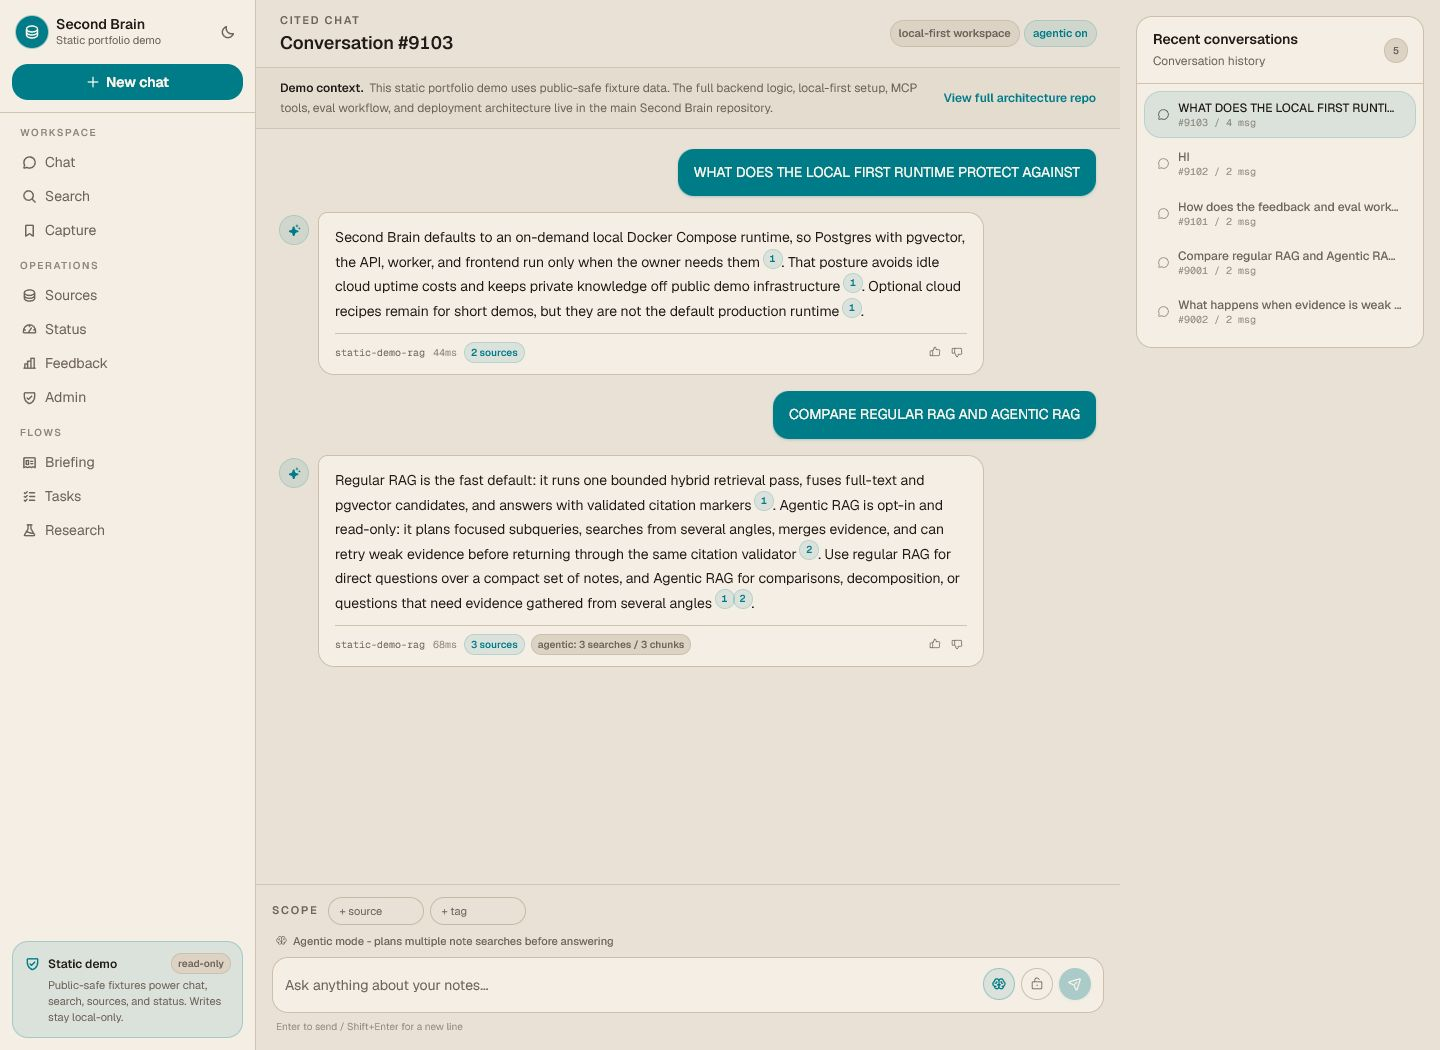
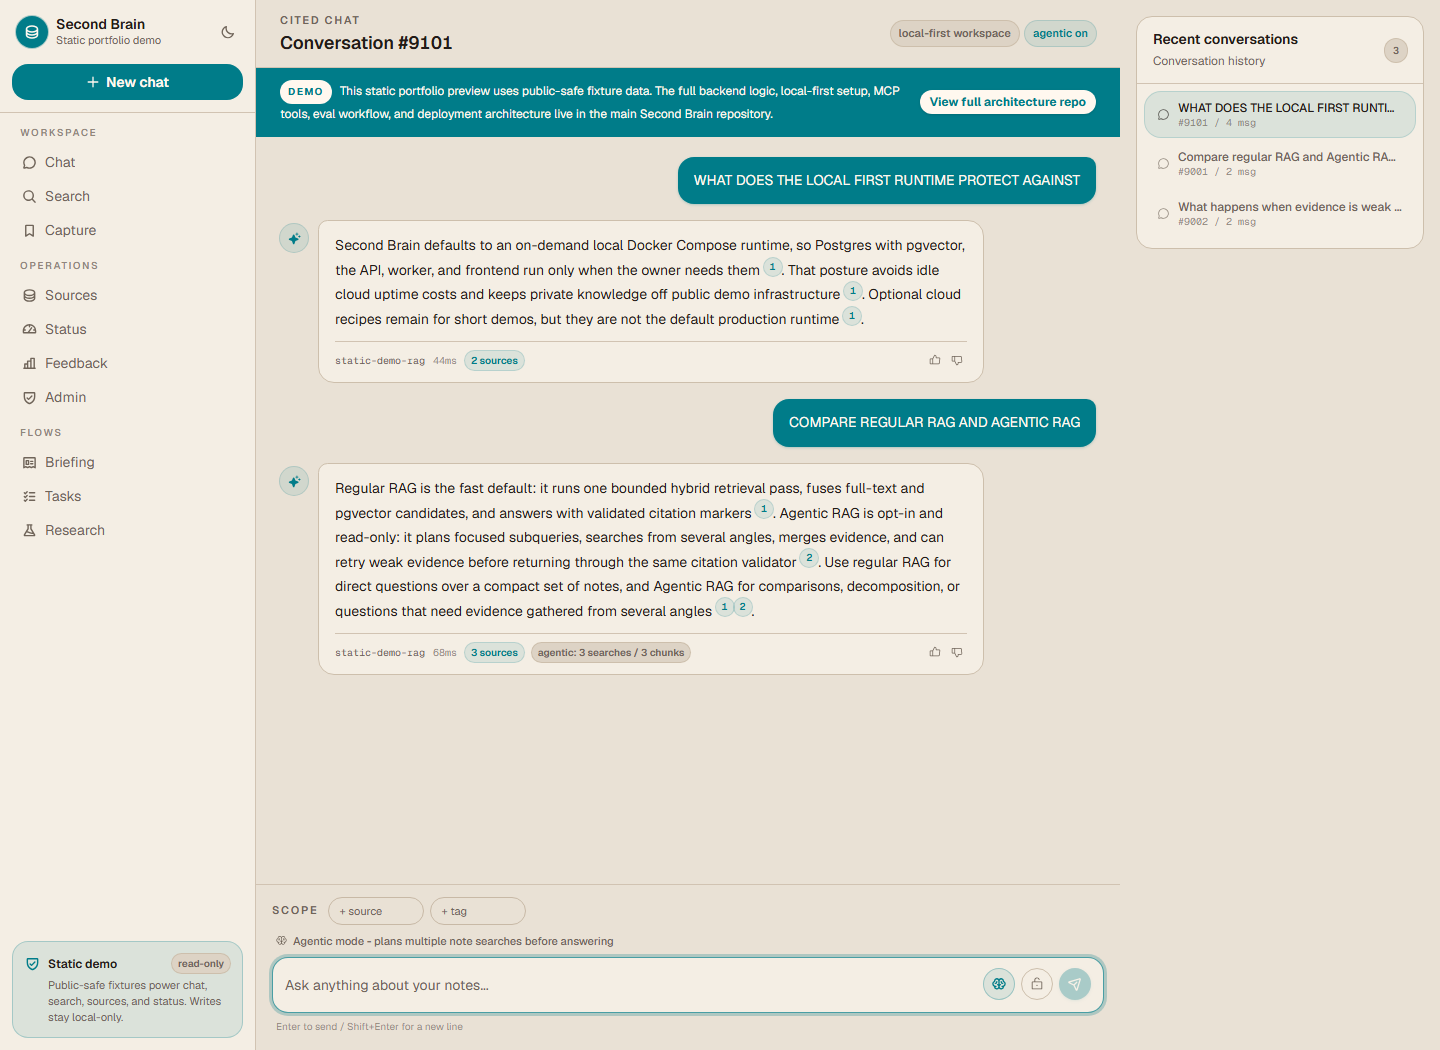
Highlight static demo context

diff --git a/frontend/app/chat/page.tsx b/frontend/app/chat/page.tsx
@@ -288,11 +288,13 @@ function ChatPage() {
         </div>
       </header>
       {STATIC_DEMO_MODE && (
-        <section className="shrink-0 border-b border-grid bg-muted/35 px-4 py-2.5 md:px-6">
-          <div className="mx-auto flex w-full max-w-5xl flex-col gap-2 text-xs leading-5 text-muted-foreground sm:flex-row sm:items-center sm:justify-between">
+        <section className="shrink-0 border-b border-primary/40 bg-primary px-4 py-3 text-primary-foreground md:px-6">
+          <div className="mx-auto flex w-full max-w-5xl flex-col gap-2 text-xs leading-5 sm:flex-row sm:items-center sm:justify-between">
             <p className="min-w-0">
-              <span className="mr-1.5 font-semibold text-foreground">Demo context.</span>
-              This static portfolio demo uses public-safe fixture data. The full backend logic,
+              <span className="mr-2 inline-flex rounded-md bg-primary-foreground px-2 py-0.5 text-[10px] font-bold uppercase tracking-[0.14em] text-primary">
+                Demo
+              </span>
+              This static portfolio preview uses public-safe fixture data. The full backend logic,
               local-first setup, MCP tools, eval workflow, and deployment architecture live in the
               main Second Brain repository.
             </p>
@@ -300,7 +302,7 @@ function ChatPage() {
               href={MAIN_SECOND_BRAIN_REPO_URL}
               target="_blank"
               rel="noreferrer"
-              className="shrink-0 text-xs font-semibold text-primary underline-offset-4 transition-colors hover:text-primary/85 hover:underline"
+              className="inline-flex shrink-0 items-center justify-center rounded-md bg-primary-foreground px-2.5 py-1 text-xs font-bold text-primary shadow-sm transition-colors hover:bg-primary-foreground/90 focus-visible:outline-none focus-visible:ring-3 focus-visible:ring-primary-foreground/35"
             >
               View full architecture repo
             </a>

diff --git a/README.md b/README.md
@@ -1,22 +1,54 @@
 # Second Brain Portfolio Demo
 
-This repository is the public, zero-cost Netlify static demo for
-[Second Brain](https://github.com/tomnguyen103/second-brain). It exists so
-portfolio visitors can click through the product experience without deploying
-the private local-first runtime.
+**A zero-cost static Netlify portfolio preview of
+[Second Brain](https://github.com/tomnguyen103/second-brain): a local-first
+personal AI workspace for streaming cited RAG, hybrid search, source
+management, briefings, feedback/evals, and MCP-powered actions.**
+
+This repository keeps the public demo separate from the full local-first
+runtime. It ships only static frontend assets and public-safe fixture data, so
+portfolio visitors can click through the product experience without deploying a
+database, API server, worker, LLM key, or private notes.
 
 ![Second Brain static portfolio demo chat screen](docs/assets/second-brain-portfolio-demo-chat.png)
 
 ## Important Note
 
-This repo is only the static portfolio demo. The real application logic,
-backend architecture, local-first setup, MCP tools, eval workflow, worker,
-database, and operations documentation live in the main repository:
+This repo is only the static portfolio demo. The actual logic code, backend
+architecture, local-first setup, MCP tools, eval workflow, worker, database, and
+operations documentation live in the main repository:
 
 https://github.com/tomnguyen103/second-brain
 
 Use this repo to review the deployable public frontend experience. Use the main
-`second-brain` repo to review how the full system is built and operated.
+`second-brain` repo to review how the full system is built, operated, tested,
+and extended.
+
+## Project Overview
+
+The full Second Brain project captures web passages and personal knowledge,
+stores them in PostgreSQL with pgvector and full-text indexes, serves
+citation-validated answers over streaming chat, produces briefings, and exposes
+MCP tools for trusted local clients.
+
+This static demo mirrors the portfolio-facing web shell with deterministic,
+browser-side fixture behavior. Chat, search, sources, status, feedback, tasks,
+research, briefing, and admin pages call a read-only demo adapter backed by the
+public demo corpus. Regular RAG and Agentic RAG are both represented with
+citation markers, retrieval metadata, source snippets, and a clear demo-context
+notice that links viewers to the full architecture repo.
+
+## Tech Stack
+
+| Layer | Static portfolio demo | Full `second-brain` repo |
+| --- | --- | --- |
+| Frontend | Next.js 16 static export, React 19, TypeScript, Tailwind CSS, Base UI/shadcn-style primitives, TanStack Query, Framer Motion, Phosphor/lucide icons | Next.js, TypeScript, Tailwind CSS, shadcn/ui, TanStack Query, repo-local WattVision DesignMD |
+| Demo API | Browser-side read-only adapter in `frontend/lib/api/demo-client.ts` | Python, FastAPI, SQLAlchemy, Alembic, Pydantic v2 |
+| Data and retrieval | Public-safe fixture corpus, deterministic static search, local citation helpers | PostgreSQL, pgvector, full-text search, JSONB, RLS, audit tables, RRF hybrid retrieval |
+| Agentic RAG | Static Agentic RAG metadata and deterministic comparison answers | LangGraph request-scoped read-only retrieval workflow |
+| LLM and embeddings | No browser LLM calls, no embedding API calls, no secrets | Gemini 2.5 Flash, local Ollama private mode, fake driver, MiniLM or Gemini embeddings |
+| Workflows | Read-only UI surfaces for writes, ingest, eval promotion, retention purge, and admin actions | MCP stdio tools, durable worker jobs, daily briefings, feedback review, MLflow evals, CI eval gate |
+| Runtime and deploy | Netlify static export from `frontend/out`; zero backend cost | Local-first Docker Compose with optional VPS demo recipe and local kind learning track |
 
 ## What This Demo Shows
 
@@ -27,8 +59,8 @@ Use this repo to review the deployable public frontend experience. Use the main
 - Static search over the public demo corpus.
 - Read-only behavior for writes such as capture, ingest, task creation,
   source edits, research enqueue, eval promotion, deletion, and retention purge.
-- A demo context notice that tells viewers this is a static portfolio preview
-  and links to the full architecture repo.
+- A highlighted demo context notice that tells viewers this is a static
+  portfolio preview and links to the full architecture repo.
 - Optional casual passcode gate through `NEXT_PUBLIC_DEMO_ACCESS_HASH`.
 
 ## What This Repo Does Not Contain
@@ -118,8 +150,8 @@ http://127.0.0.1:4173/chat/
 
 Check that:
 
-- `/chat/` shows the demo context notice and answers public-safe prompts with
-  citations.
+- `/chat/` shows the highlighted demo context notice and answers public-safe
+  prompts with citations.
 - The Agentic RAG toggle updates the header state and returns static agentic
   retrieval metadata when enabled.
 - `/search/` returns fixture corpus hits.
@@ -133,4 +165,3 @@ Check that:
 | --- | --- |
 | `second-brain-portfolio-demo` | Static Netlify demo for portfolio viewers |
 | [`second-brain`](https://github.com/tomnguyen103/second-brain) | Full local-first app, backend, MCP server, evals, data model, runtime setup, and operations docs |
-
